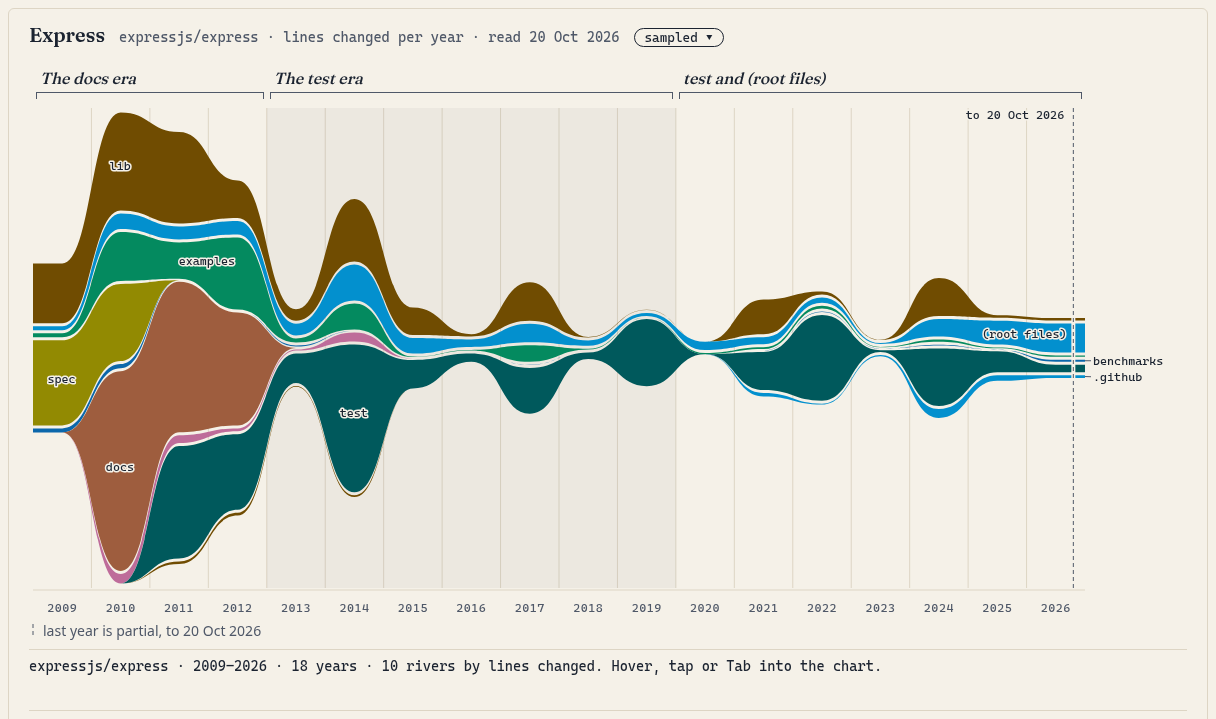
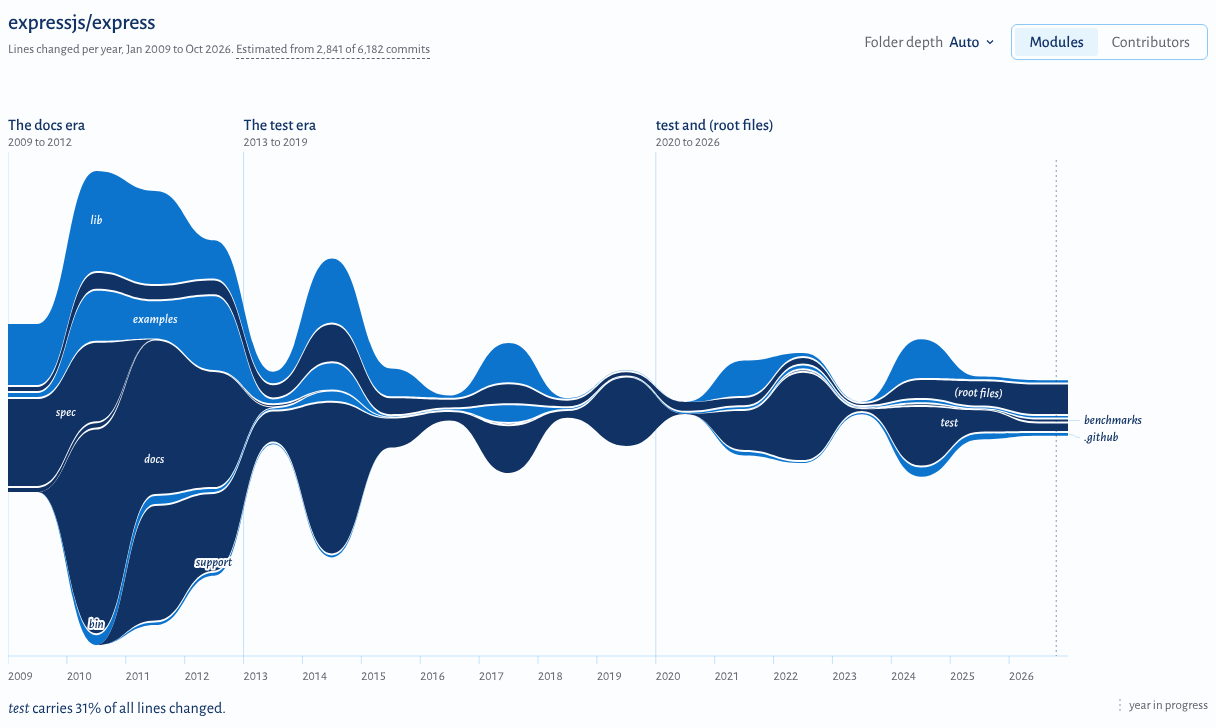
Redesign R7: README hero, gallery, social preview and launch GIF in the new design
pnpm gallery now renders at the design's 1440 px width: the example cards,
the social preview (1280x640), a still of the page for the README
(docs/images/hero.webp, 101 KB, replacing the GIF and its PNG fallback) and the
launch GIF (the arrive reveal held and stepped, then a hover pass). README,
the gallery page and the launch kit describe the redesigned chart: two blues
instead of hues, Radix Colors in the credits, the chart head's estimate in
place of the badge, eras instead of brackets.

Claude-Session: https://claude.ai/code/session_01JkYyYNqjFtcB2YRJcD65To

diff --git a/README.md b/README.md
@@ -14,9 +14,9 @@ pnpm dev:worker   # optional, in a second terminal: the API for pasting any publ
 
 No account and no API key. The built-in samples (Vite, Svelte, Express) render offline. Pasting `owner/name` or a GitHub URL also works without the Worker: the browser then reads GitHub directly, against your own rate limit.
 
-<picture><source media="(prefers-reduced-motion: reduce)" srcset="docs/images/hero.png"><img src="docs/hero.gif" width="720" alt="The Vite sample: rivers of modules from 2020 to 2026 sweep in from the left, with packages/vite as the widest river, dashed arrows where files moved between folders, and three named eras above the chart. The pointer then follows packages/vite and docs/.vitepress, dimming the other rivers while the readout gives each quarter's lines changed."></picture>
+<img src="docs/images/hero.webp" width="720" alt="The Repo Rivers page with the Vite sample: the headline “A repository’s history, drawn as rivers”, a field for a GitHub repository with a Draw button and the samples Vite, Svelte and Express, then vitejs/vite drawn as rivers of folders from 2020 to 2026 in two blues, with packages/vite as the widest river, a hatched “other”, dashed arrows where files moved between folders, three named eras above the chart and a readout under it.">
 
-More examples, with the story each sample tells: [the gallery](examples/README.md). Without motion: [Still image](docs/images/hero.png).
+More examples, with the story each sample tells: [the gallery](examples/README.md).
 
 ## What you can read from it
 
@@ -33,7 +33,7 @@ More examples, with the story each sample tells: [the gallery](examples/README.m
 4. **Bucket by time.** The smallest of week, month, quarter or year that gives at most 24 buckets (48 with a token; the Vite and Svelte samples were built with one, hence their 27 and 41 quarters).
 5. **Draw flows.** A pure layout function turns the buckets into ribbons, transfers and direct labels in SVG. Runtime dependencies are `react` and `react-dom` only.
 
-**Sampling and rate limits.** Unauthenticated GitHub access allows 60 requests per hour. Small repositories are read commit by commit. Larger ones are sampled with one comparison per bucket, which caps a fetch at 55 requests. A "sampled" badge says what was estimated. Results are cached in the Worker (Cloudflare KV) and in your browser: fresh for 24 h, kept up to 30 days and revalidated.
+**Sampling and rate limits.** Unauthenticated GitHub access allows 60 requests per hour. Small repositories are read commit by commit. Larger ones are sampled with one comparison per bucket, which caps a fetch at 55 requests. The chart head says what was read ("Estimated from 6,310 of 9,799 commits") and opens the source notes. Results are cached in the Worker (Cloudflare KV) and in your browser: fresh for 24 h, kept up to 30 days and revalidated.
 
 **The move-finder.** GitHub lists at most 300 files per comparison, which can hide a large reorganisation. When a folder first appears in such a bucket, repo-rivers finds the commit that created it and reads its renames, at about 3 to 6 extra requests per folder.
 
@@ -43,11 +43,11 @@ More detail: [docs/EXTENDING.md](docs/EXTENDING.md) (public API, adapters, themi
 
 ## Accessibility
 
-- Meaning never relies on colour alone: rivers have direct labels and a stable order, "other" is hatched, transfers are dashed with arrowheads.
-- The palette is based on Okabe-Ito and is tested in code: every pair of colours stays distinguishable (CIEDE2000 ΔE ≥ 8) under protanopia, deuteranopia and tritanopia simulation, in light and dark themes.
-- The chart is keyboard-operable: arrow keys move between rivers and time buckets, Home/End jump to the ends, Enter pins and Escape clears.
+- Meaning never relies on colour alone: rivers carry no hue, only two blues of different lightness so neighbours differ; rivers are named on the chart (or in the Rivers table) and keep a stable order; "other" is hatched, bots have a dotted edge and moved files are dashed arrows.
+- The colours are Radix Colors blue and slate, light and dark, and are tested in code: both river blues have at least 3:1 contrast against the background and differ in lightness under protanopia, deuteranopia and tritanopia simulation, and text has at least 4.5:1.
+- The chart is keyboard-operable: arrow keys move between rivers and time buckets (on a phone, where time runs down the page, Up and Down move through time), Home/End jump to the ends, Enter pins and Escape clears. Rows of the Rivers table and the eras are buttons too.
 - Screen readers get a prose summary, a live readout of the focused river, and the Rivers table: every river with its total, share and active years.
-- `prefers-reduced-motion` turns off every animation. The browser checks run axe on the sample, loading and error states.
+- `prefers-reduced-motion` turns off every animation: the chart is drawn at once, with no reveal, fades or crossfades. The browser checks run axe on the sample, loading and error states.
 
 Found a barrier? Please [open an issue](https://github.com/geekplux/repo-rivers/issues/new/choose).
 
@@ -64,8 +64,7 @@ The app and its API are one Cloudflare Worker. Prerequisites, the exact command 
 
 ## Roadmap
 
-- A hosted demo on Cloudflare.
-- Export as SVG or PNG; a vertical layout for phones.
+- Export as SVG or PNG.
 - Co-authored-by attribution.
 - More sources: GitLab and local `git log` adapters.
 - `src/core` as an npm package.
@@ -79,7 +78,7 @@ See [CONTRIBUTING.md](CONTRIBUTING.md), the [Code of Conduct](CODE_OF_CONDUCT.md
 ## Credits
 
 - [geekplux/timeline-sankey](https://github.com/geekplux/timeline-sankey) (BSD-3-Clause): the inspiration for the ribbon shape, the dashed cross-links and hover dimming. repo-rivers is a rewrite; no code was copied.
-- The [Okabe-Ito](https://jfly.uni-koeln.de/color/) colour-blind-safe palette, from which the river hues are derived.
+- [Radix Colors](https://www.radix-ui.com/colors) (MIT): the blue and slate scales of the light and dark themes.
 - [Alegreya Sans](https://github.com/huertatipografica/Alegreya-Sans) by Huerta Tipográfica, under the [SIL Open Font License](public/fonts/OFL.txt).
 
 ## License

diff --git a/docs/LAUNCH.md b/docs/LAUNCH.md
@@ -2,7 +2,7 @@
 
 > **Drafts only. Do not post until Sean approves.** Nothing in this file has been posted anywhere.
 
-Assets: the social preview [`docs/social-preview.png`](social-preview.png) (1280×640), the README GIF [`docs/hero.gif`](hero.gif) and the [gallery](../examples/README.md). Regenerate them with `pnpm build && pnpm gallery`.
+Assets: the social preview [`docs/social-preview.png`](social-preview.png) (1280×640), the README image [`docs/images/hero.webp`](images/hero.webp), the launch GIF [`docs/hero.gif`](hero.gif) (the chart arriving, then a pointer following two rivers) and the [gallery](../examples/README.md). Regenerate them with `pnpm build && pnpm gallery`.
 
 ## Show HN
 
@@ -15,11 +15,11 @@ Assets: the social preview [`docs/social-preview.png`](social-preview.png) (1280
 > Try it: https://reporivers.geekplux.com. Three samples (Vite, Svelte, Express) are bundled and render offline. Paste `owner/name` or a GitHub URL for any public repository; no account and no key.
 >
 > How it works:
-> - The GitHub REST API gives the default branch's history. Small repositories are read commit by commit; larger ones are sampled with one comparison per time bucket, which caps a fetch at 55 requests (the unauthenticated limit is 60 an hour). A "sampled" badge says what was estimated.
+> - The GitHub REST API gives the default branch's history. Small repositories are read commit by commit; larger ones are sampled with one comparison per time bucket, which caps a fetch at 55 requests (the unauthenticated limit is 60 an hour). The chart head says what was estimated ("Estimated from 6,310 of 9,799 commits").
 > - Paths are mapped to folders (depth 1 to 3) and commits to contributors, then bucketed by week, month, quarter or year.
 > - A pure layout function draws the ribbons in SVG. Runtime dependencies are React and React DOM.
 > - Era boundaries are computed deterministically. One small model call (Workers AI) names them, from a summary of at most 2 KB with no person names and no commit messages; without it, eras get template names.
-> - Colours come from a colour-vision-deficiency-tested palette, every river has a direct label, and the chart works with the keyboard and a screen reader (prose summary and data table).
+> - Rivers carry no hue, only two blues of different lightness (tested under colour-vision-deficiency simulation); rivers are named on the chart, and the chart works with the keyboard and a screen reader (prose summary and the Rivers table).
 >
 > Limits: default branch only, sampled data for large histories, and GitHub lists at most 300 files per comparison (a move-finder fills in large reorganisations).
 >
@@ -35,7 +35,7 @@ Assets: the social preview [`docs/social-preview.png`](social-preview.png) (1280
 
 1. > repo-rivers draws a repository's history as a timeline-sankey: one river per top-level folder or contributor, quarter by quarter. Here is Vite moving from src/node to packages/vite. https://reporivers.geekplux.com [attach docs/hero.gif]
 2. > Svelte, 2016 to 2026: the Q1 2019 spike is the Svelte 3 rewrite, and in Q2 2023 dashed arrows carry 952 files from test/ and 231 from src/ into packages/. Express, 2009 to 2026: a long, steady river. [attach examples/svelte-light.png]
-3. > Under the hood: the GitHub REST API (sampled to stay under the 60 requests/hour limit), a pure SVG layout, and one small cached model call that names the eras. Keyboard and screen-reader friendly, colour-blind-safe palette, MIT. Source: https://github.com/geekplux/repo-rivers
+3. > Under the hood: the GitHub REST API (sampled to stay under the 60 requests/hour limit), a pure SVG layout, and one small cached model call that names the eras. Keyboard and screen-reader friendly, nothing depends on telling colours apart, MIT. Source: https://github.com/geekplux/repo-rivers
 
 ## Demo scenarios
 
@@ -44,7 +44,7 @@ Assets: the social preview [`docs/social-preview.png`](social-preview.png) (1280
 A developer joins a project built on Svelte and wants a mental map of the repository before reading code.
 
 1. Open `https://reporivers.geekplux.com?sample=svelte`.
-2. The chart shows `src` and `test` until 2023, then `packages`. The bracket *The move to packages* and the dashed arrows explain why old blog posts and issues point to paths that no longer exist.
+2. The chart shows `src` and `test` until 2023, then `packages`. The era *The move to packages* and the dashed arrows explain why old blog posts and issues point to paths that no longer exist.
 3. Tab into the chart and press the arrow keys: the readout gives lines changed and the share of each quarter, so the busiest folders of the last year are clear.
 4. Switch to **Contributors** to see who has been active recently, and read the **Rivers** table under the chart for each one’s total, share and active years.
 

diff --git a/examples/README.md b/examples/README.md
@@ -1,20 +1,20 @@
 # Gallery
 
-The three built-in samples, as `pnpm gallery` renders them. Each one opens instantly and offline, with no key: use the links below (or run `pnpm dev` and open the same `?sample=` paths on localhost). Every image is the chart card at 1280 px wide; hover, tap or Tab into the live chart for exact numbers.
+The three built-in samples, as `pnpm gallery` renders them. Each one opens instantly and offline, with no key: use the links below (or run `pnpm dev` and open the same `?sample=` paths on localhost). Every image is the chart card of the page at 1440 px wide; hover, tap or Tab into the live chart for exact numbers.
 
-To regenerate these images, the social preview and the README GIF: `pnpm build && pnpm gallery`.
+To regenerate these images, the social preview, the README image and the launch GIF: `pnpm build && pnpm gallery`.
 
 ## Vite: from `src/node` to `packages/vite`
 
 [Open: `?sample=vite`](https://reporivers.geekplux.com/?sample=vite)
 
-![The Vite sample in the light theme: rivers of folders from 2020 to 2026. packages/vite starts in late 2020 and is the widest river from then on; three era brackets sit above the chart.](vite-light.png)
+![The Vite sample in the light theme: rivers of folders from 2020 to 2026. packages/vite starts in late 2020 and is the widest river from then on; three named eras sit above the chart.](vite-light.png)
 
 In spring 2020 Vite's code lived in `src/node` and a top-level `playground`. In Q4 2020 the repository took its monorepo layout: `packages/vite` appears and is the main river, and dashed arrows show `playground` moving into `packages/playground`. The era names follow the data: *From src/node to packages/vite*, *The move to packages/create-vite* (122 files moved in Q3 2021), then *More packages/vite*. The late bulge labelled `docs/.vitepress` is busy in Q4 2024 and Q1 2026.
 
 | Dark theme | Contributors |
 | --- | --- |
-| ![The Vite sample in the dark theme: the same rivers on a dark background with lighter hues.](vite-dark.png) | ![The Vite sample by contributor: yyx990803 carries the first year, then sapphi-red, patak-cat and bluwy carry most of the later history.](vite-contributors.png) |
+| ![The Vite sample in the dark theme: the same rivers on a dark background in lighter blues.](vite-dark.png) | ![The Vite sample by contributor: yyx990803 carries the first year, then sapphi-red, patak-cat and bluwy carry most of the later history.](vite-contributors.png) |
 
 ## Svelte: the Svelte 3 spike and the 2023 monorepo move
 
@@ -42,4 +42,4 @@ From 2009 to 2026, one bucket per year. The early years are the busiest: `spec` 
 
 ## Social preview
 
-[`?embed=social`](https://reporivers.geekplux.com/?embed=social) is a minimal 1280×640 card (wordmark, pitch, chart). It accepts `&sample=`, and it is the source of [`docs/social-preview.png`](../docs/social-preview.png).
+[`?embed=social`](https://reporivers.geekplux.com/?embed=social) is a minimal 1280×640 card (logo, headline, chart). It accepts `&sample=`, and it is the source of [`docs/social-preview.png`](../docs/social-preview.png).
